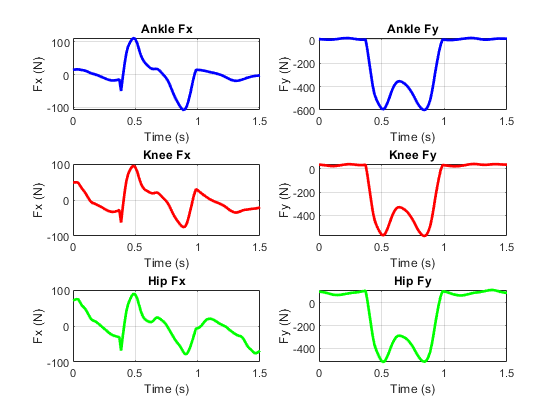
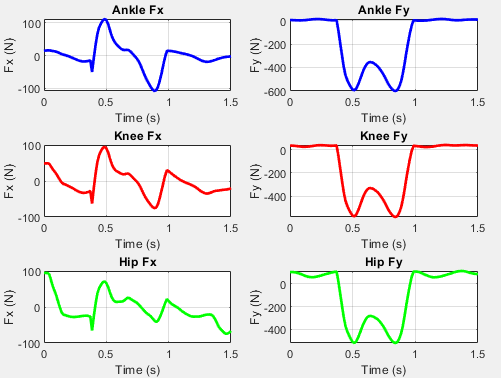
Update contact text, spinal loading project, readme, and gait analysis images

diff --git a/portfolio-content.md b/portfolio-content.md
@@ -1,0 +1,132 @@
+# Portfolio Content — Peter Ziegler
+
+---
+
+## Identity
+
+- **Name:** Peter Ziegler
+- **Role:** Mechanical Engineering Student
+- **Email:** pete.m.ziegler@gmail.com
+- **LinkedIn:** https://www.linkedin.com/in/pziegler1/
+- **Resume:** /resume/resumePdf.pdf
+
+---
+
+## Hero Section
+
+**Greeting:** Hi, my name is
+
+**Subtitle:** I love to build things.
+
+**Hero bio:**
+I'm a Mechanical Engineering student at UGA drawn to robotics, automation, and industrial technology. I like working at the intersection of physical systems and digital control, whether that's solving inverse kinematics for a 6-DOF arm or pulling sensor data off a factory floor with MQTT.
+
+---
+
+## About Section
+
+**Bio paragraph 1:**
+I absolutely love robotics and automation — the idea that code can move real things in the physical world is endlessly exciting. I'm a Mechanical Engineering student at the University of Georgia, and I've spent my college years trying to close the gap between textbook physics and real-world systems.
+
+**Bio paragraph 2:**
+Something that really drives me: systems that work end-to-end. Whether that's a Python-based inverse kinematics solver for a 6-DOF arm, an MQTT telemetry network for an industrial site, or an autonomous robot navigating obstacles — I care about the full stack from sensor to actuator. Outside of engineering I volunteer with the Brooklyn Cemetery restoration project in Athens.
+
+**Bio paragraph 3:**
+I'm always looking for opportunities to work on meaningful engineering problems. Feel free to reach out if you'd like to build something together!
+
+---
+
+## Work Experience
+
+### UGA Physical AI Lab
+- **Role:** Undergraduate Research Assistant
+- **Dates:** Jan 2026 — Present
+- **Description:**
+  - Collected 100 iterations of demonstration data via teleoperation
+  - Trained a robot arm via imitation learning to perform basic tasks without human intervention
+  - Currently researching 8 VLA policies to improve the accuracy and precision of robot actions
+
+---
+
+### Southern Flow
+- **Role:** Automation Engineering Intern
+- **Dates:** May 2025 — Aug 2025
+- **Description:**
+  - Designed a proof-of-concept diaphragm seal fill station with the potential to reduce subcontractor labor costs by ~40%
+  - Developed an MQTT-enabled Remote Telemetry Unit and documented the full fabrication process in a 22-page manual
+  - Configured a protocol gateway bridging Modbus RTU (RS-485) to Ethernet TCP
+  - Created AutoCAD LT wiring diagrams for PLC IO cards across 4 sites
+
+---
+
+## Projects
+
+### Inverse Kinematics Solver *(Featured)*
+**Tags:** Python, Robotics, Kinematics, CoppeliaSim, Simulation
+**Date:** Jan 2026
+
+**Description:**
+This project builds a numerical inverse kinematics solver for a 6-DOF UR5 robotic arm. Given a desired position and orientation for the end-effector, the solver finds the six joint angles that put the arm there. I described the robot's geometry using a standard Denavit-Hartenberg parameter table, then wrote a forward kinematics routine that chains the six joint transforms together to compute where the end-effector currently is for any set of joint angles. The IK solver is iterative: at each step it computes the 6D error between the current and target poses, builds the Jacobian matrix that relates joint velocities to end-effector velocities, and uses that relationship to figure out a small joint update that should reduce the error. Repeat until the error drops below a tolerance. To validate it, I plugged the output joint angles into a CoppeliaSim UR5 model and confirmed the simulated arm lands at the desired pose.
+
+The two parts I found most interesting to work through were the orientation error and the step size. Position error is easy because you can subtract two 3D vectors, but orientation error needs more thought since you can't subtract two rotation matrices in a meaningful way. I computed the rotation that takes the current orientation to the target, then pulled the rotation angle out using the trace of that matrix and the rotation axis out of its off-diagonal entries. That gave me a single 3D vector representing "how much to rotate, and around what axis" that fits into the same error format as position. The step size turned out to be more interesting than I expected. The full Newton step is fast near the solution but can overshoot when you're far from it, so scaling each update by a fraction makes the solver more stable at the cost of more iterations. I tested several values and plotted the convergence behavior. The full step converged in 9 iterations but bounced around at one point along the way, while smaller steps were slower but near completely linear.
+
+---
+
+### Gait Analysis Model *(Featured)*
+**Tags:** *(none)*
+**Date:** *(none set)*
+
+**Description:**
+This project performs an inverse dynamics analysis on a person's leg during gait, using marker motion capture data and ground reaction force measurements to calculate the internal forces and moments at the ankle, knee, and hip joints over time. I built a 2D model of the foot, leg, and thigh using standard anthropometric data to set each segment's length, mass, and moment of inertia from the subject's body weight. For each frame, the script tracks segment angles and center-of-mass positions from the marker data, numerically differentiates to get linear and angular velocities and accelerations, then works up the chain from foot to hip applying Newton-Euler equations at each joint. The output is a plot of joint moments versus time along with x and y intersegmental forces at the ankle, knee, and hip, which together describe the internal loading the body produces during the recorded motion.
+
+The biggest challenge was that numerical differentiation amplifies noise dramatically, so the raw marker data couldn't be differentiated twice without producing wild accelerations. I handled this by applying a moving-average filter to the raw marker positions and then again after each derivative step, which kept the velocity and acceleration signals in a workable state. I also wrote two helper functions for central difference differentiation, one for paired x and y signals and one for single angular signals, which kept the main script readable and made the velocity and acceleration calculations consistent across all three segments. The other tricky part was getting the moment equations right at each joint, since the sign of the moment arm depends on which direction the segment's unit vector points and which end of the segment the force is applied at. To build confidence in the results, I chained the analysis from the ground up, using each joint's solved reaction force as the input to the next segment so that any error would show up clearly in the following plots.
+
+---
+
+### Spinal Loading Model *(Featured)*
+**Tags:** MATLAB, Biomechanics, Data Analysis, Gait Analysis
+**Date:** May 2026
+
+**Description:**
+This project models a person lifting a 5 kg object and estimates the forces on their lower back across a range of postures, from a deep squat up to a nearly standing position. I was primarily responsible for building a 2D sagittal-plane model of the body as a six-link chain (foot, leg, thigh, trunk, upper arm, and forearm) using standard anthropometric data to set each segment's length and mass from the person's height and weight. For each posture, the code solves an inverse kinematics problem to find joint angles that place the hands at a target position. Additionally, this project assumes that the person is in quasi-static equilibrium which allows us to solve for the spinal force much easier. The output is a series of stick-figure plots plus summary graphs of muscle, shear, and compression forces versus knee angle, which together show why lifting form matters so much.
+
+The hardest part was that the inverse kinematics problem is underdetermined. There are six joint angles but only two position equations, so most mathematical solutions come out biomechanically impossible, and MATLAB's fslove doesn't accept joint limits to rule them out. My team's workaround was to pick two anatomically reasonable end postures and linearly interpolate between them to seed 20 different initial guesses, steering the solver toward realistic poses without enforcing hard constraints. For the statics, we used 4×4 homogeneous transformation matrices to chain the body together so each segment's position and center of mass fell out of a single matrix multiplication, then built the equilibrium equations into a 3×3 linear system solved at every posture. To make sure the results held up, I added a sanity check on the hip-force decomposition into compression and shear, plus a base-of-support check on the body's center of mass to confirm each posture was actually stable.
+
+---
+
+### Disc Launcher *(Featured)*
+**Tags:** CAD, Fabrication, Prototyping, Mechanical Design, Team Project
+**Date:** Dec 2025
+
+**Description:**
+I worked with a team of five other student engineers to design and build a ballista-style launcher for a class project. My role focused on fabrication and performance testing, including building out the wooden frame and trigger mechanism and running the iteration cycles that pushed the launcher toward its final performance. The original goal was to launch a disc, but the disk was very light and flimsy, which meant that it was susceptible to very small changes in wind and would additionally deform substantially when shot from any powerful device. So the team and I made the call to embed the disc into a more aerodynamically stable dart-style projectile instead. That pivot ended up being the single biggest contributor to performance for the project and reframed how we approached the rest of the testing.
+
+The trickiest piece was the trigger mechanism. We started with a medieval crossbow design as our reference, but translating that geometry into something that actually held up under our tension loads took several iterations. Early versions snapped under load, the string holder kept bending or slipping out of place, and getting the two contact pieces to mate cleanly enough for a consistent release was challenging. Each failure mode forced us to rethink either the material, the geometry, or the fit between the parts. Once the trigger finally released cleanly and predictably, our test data actually became relevant, since we could tell whether a distance change came from a design tweak or from a bad release. From there I ran iterative testing on dart geometry and launch angle, adjusting one variable at a time across multiple test sessions until we landed on a combination that pushed launch distance up by roughly 30% over our baseline.
+
+---
+
+### Object Avoiding Robot *(Other Noteworthy)*
+**Tags:** Arduino, Robotics, Sensors
+**Date:** Jan 2025
+
+**Description:**
+Programmed an Arduino to receive sonar distance and direction signals, translate them into avoidance regions, and navigate around obstacles autonomously. Refined the detection algorithm to improve smoothness and accuracy, resulting in a 25% increase in operating speed.
+
+---
+
+### Inverted Pendulum Table *(Other Noteworthy)*
+**Tags:** MIG Welding, Fabrication, Plasma Cutting, Collaboration
+
+**Description:**
+Collaborated with another student and a faculty advisor to fabricate a rigid steel base for an inverted pendulum control system, where base stiffness directly affects the accuracy of the balancing control loop. Contributed to the geometric design of the structure and utilized MIG welding from scratch to join the assembly.
+
+---
+
+## Education
+
+### University of Georgia College of Engineering
+- **Degree:** Bachelor of Science in Mechanical Engineering
+- **Certificate:** Certificate of Artificial Intelligence
+- **GPA:** 3.51 / 4.0
+- **Dates:** Aug 2023 — Dec 2027
+- **Relevant Coursework:** Biomechanics, Thermodynamics, Fluid Mechanics, Strength of Materials, Circuits, Data Science 1

diff --git a/resume_data.md b/resume_data.md
@@ -1,0 +1,51 @@
+Peter Ziegler
+
+pete.m.ziegler@gmail.com | 470-418-8473 | https://www.linkedin.com/in/pziegler1/ | Atlanta Metropolitan Area  
+EDUCATION  
+University of Georgia, College of Engineering – Athens, GA Expected December 2027  
+Bachelor of Science in Mechanical Engineering GPA: 3.42  
+Skills:  
+Engineering Software: Onshape, AutoCAD LT, Autodesk Inventor Pro, MQTT, VT-Scada, Microsoft Office  
+Programming & Fabrication: Python, MATLAB, Arduino, Node-Red, Linux, MIG & Stick Welding  
+Relevant Coursework: Biomechanics, Data Science I, Circuits, Thermodynamics, Strength of Materials, Fluid Mechanics  
+PROFESSIONAL EXPERIENCE  
+Undergraduate Research Assistant, UGA Physical Ai Lab – Athens, GA Jan 2026 – Present  
+• Collected 100 iterations of demonstration data via teleoperation, then trained a robot arm via imitation learning to  
+perform basic tasks without human intervention.  
+• Currently researching the advantages and disadvantages of 8 VLA policies to improve the accuracy and precision of the  
+designated robot’s actions.  
+Automation Engineering Intern, Southern Flow – Alpharetta, GA May 2025 – Aug 2025  
+• Researched and developed a proof-of-concept diaphragm seal fill station with the potential to reduce subcontractor labor  
+costs for pressure gauges by an estimated 40  
+• Developed a MQTT-enabled Remote Telemetry Unit and documented the fabrication and integration process in a detailed  
+22-page manual in order to enable Industry 4.0 data acquisition and analysis.  
+• Utilized AutoCAD LT to create wiring diagrams for the IO cards of PLCs in 4 separate sites, enabling lower maintenance  
+downtime and easier troubleshooting.  
+• Configured a protocol gateway to bridge Modbus RTU(RS-485) to Ethernet-based TCP communication, enabling modern  
+data acquisition.  
+PROJECT EXPERIENCE  
+Biomechanics, The University of Georgia – Athens, GA Jan 2025 – May 2026  
+• Modeled lower-back spinal loading across 20 lifting postures using a 2D 6-DOF human body model in MATLAB,  
+identifying which knee angles minimized injury risk.  
+• Analyzed full gait-cycle joint forces and moments on the ankle, knee, and hip by processing motion and force plate data.  
+• Researched constitutive equations for modeling the nonlinear stress-strain behavior of human skin and presented findings  
+as part of a 6-person team.  
+Inverse Kinematics Solver, Self Study Dec 2025 – Jan 2026  
+• Developed a Python-based inverse kinematics solver for an open-chain 6-DOF robotic arm utilizing Newton-Raphson  
+iteration to compute correct joint angles.  
+• Built a CoppeliaSim simulation to analyze the convergence of the iterations produced by the Python script and verify  
+solver stability.  
+Object Avoiding Robot, Self Study Dec 2024 – Jan 2025  
+• Developed an Arduino program to receive sonar distance and direction signals, translated those signals into avoidance  
+regions, and instructed the robot to move, avoiding those regions.  
+• Improved the code by increasing the smoothness and accuracy of object detection, resulting in a 25% increase in speed.  
+Disc Launcher, The University of Georgia – Athens, GA Aug 2024 – Dec 2025  
+• Collaborated with a team of 5 student engineers to create a 5ft3
+
+prototype of a Ballista-like disc launcher.  
+• Led the fabrication and performance testing efforts by optimizing the launch angle, flight stability of the dart, and  
+constructing a robust trigger mechanism, resulting in a 30% increase in launch distance.  
+CAMPUS INVOLVEMENT & ASSOCIATIONS  
+American Welding Society, – Athens, GA Jan 2026 – Present  
+• Attended the NASCC: The Steel Conference, exploring advances in structural steel design and manufacturing.  
+Brooklyn Cemetery Volunteer, – Athens, GA Nov 2023 – Present  

diff --git a/project-scope.md b/project-scope.md
@@ -1,0 +1,44 @@
+# Personal Portfolio Website
+
+## Problem
+
+No personal online portfolio, limiting professional visibility with recruiters and hiring managers.
+
+## Solution
+
+A personal website showcasing projects, work experience, skills, and education in a format that resonates with recruiters and hiring managers in the mechanical engineering field.
+
+## Audience
+
+Recruiters and hiring managers looking to evaluate a Mechanical Engineering Student for internships or full-time roles.
+
+## Design Direction
+
+- Inspired by mayankd.me — smooth animations, clean layout, image-heavy
+- Dark and light mode with toggle
+- Fully responsive (mobile + desktop)
+
+## Sections
+
+1. **Landing** — name, title, photo, brief intro
+2. **About Me**
+3. **Work Experience**
+4. **Projects** — with images, descriptions, and links to external files (GitHub, Google Drive)
+5. **Skills**
+6. **Education**
+7. **Contact** — LinkedIn, email, GitHub (display only, no form)
+
+## Content Management
+
+Content (projects, experience, etc.) managed via a headless CMS — no code changes required for updates.
+
+## Analytics
+
+Track visitor count and page/project engagement.
+
+## Out of Scope
+
+- Blog or writing section
+- Contact form
+- Serving large files directly (CAD, datasets) — these link out
+- Custom backend or database

diff --git a/implementation-plan.md b/implementation-plan.md
@@ -1,0 +1,33 @@
+# Implementation Plan
+
+## Phase 1 — Project Setup
+- Initialize Astro project with Tailwind CSS
+- Set up folder structure (pages, components, layouts)
+- Configure dark/light mode theming
+- Set up Git and decide on hosting (Vercel recommended — best Astro support)
+
+## Phase 2 — CMS Integration
+- Choose and configure headless CMS (recommend Decap CMS to start — free, Git-based, no extra service to manage)
+- Define content schemas for: Projects, Work Experience, Education, Skills
+
+## Phase 3 — Layout & Design
+- Build shared layout (nav, footer, dark/light toggle)
+- Implement Landing section with photo and intro
+- Style all sections to match the mayankd.me aesthetic (clean, image-forward)
+
+## Phase 4 — Sections
+Build out each section one at a time:
+About Me → Work Experience → Projects → Skills → Education → Contact
+
+## Phase 5 — Animations
+- Add scroll-triggered animations and page transitions
+- Fine-tune for smoothness on both mobile and desktop
+
+## Phase 6 — Analytics
+- Integrate analytics (recommend Umami self-hosted on Vercel — free)
+
+## Phase 7 — Polish & Deploy
+- SEO metadata (title, description, Open Graph image)
+- Accessibility pass
+- Performance audit
+- Deploy and connect custom domain

diff --git a/tech-stack.md b/tech-stack.md
@@ -1,0 +1,25 @@
+# Tech Stack
+
+## Framework
+**Astro** — static-first framework optimized for content sites. Fast builds, excellent SEO, supports component islands for interactive elements.
+
+## CMS
+**TBD** — headless CMS for managing content (projects, experience, skills, etc.) without touching code. Strong candidates: Decap CMS (free, Git-based), Contentful, or Sanity.
+
+## Styling
+**Tailwind CSS** — utility-first CSS, pairs well with Astro, good for building custom designs with smooth animation support.
+
+## Animations
+**Framer Motion** (via React island) or **CSS animations / View Transitions API** — for smooth page and element transitions inspired by mayankd.me.
+
+## Analytics
+**TBD** — candidates: Plausible (privacy-friendly, paid), Umami (self-hosted, free), or Google Analytics (free).
+
+## Hosting
+**TBD** — candidates: Vercel or Netlify (both have free tiers and integrate well with Astro).
+
+## Domain
+**TBD**
+
+## External File Hosting
+Project files (CAD, datasets, code) linked out to **GitHub** or **Google Drive** — not served by the site directly.

diff --git a/README.md b/README.md
@@ -34,6 +34,8 @@ git commit -m "your message"
 git push
 ```
 
+> Run each line separately in PowerShell — `&&` does not work in PowerShell.
+
 Vercel picks it up and goes live in ~1 minute.
 
 ---
@@ -42,3 +44,16 @@ Vercel picks it up and goes live in ~1 minute.
 
 Drop files into `public/images/` and reference them as `/images/filename.jpg`.  
 For project galleries, use Keystatic to upload — it handles the paths for you.
+
+---
+
+## What still needs work
+
+**High priority (recruiters will notice):**
+- Skills section — currently empty, fill it in via Keystatic
+- GitHub links on projects — repos exist, just add the URLs in Keystatic
+- Object Avoiding Robot and Inverted Pendulum Table descriptions — very short compared to featured projects
+
+**Nice to have:**
+- Custom domain (e.g. `peterziegler.dev`) — buy on Namecheap/Cloudflare (~$12/yr), add in Vercel → Settings → Domains
+- OG image — replace `public/og-image.png` with a real social preview image
